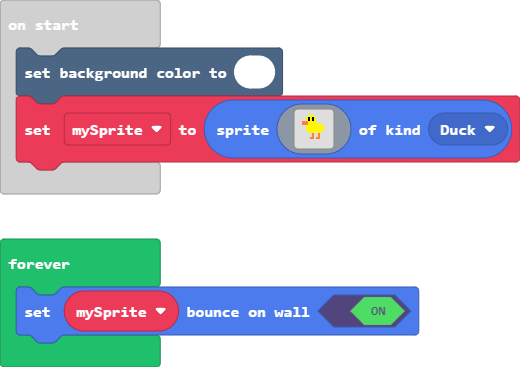
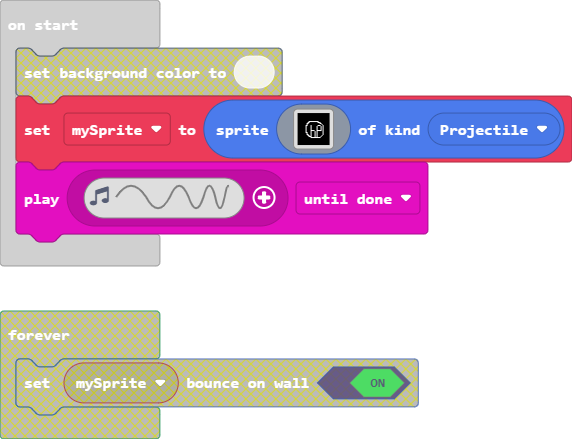
Update pxt.json, main.blocks, main.ts, images.g.jres, images.g.ts

diff --git a/images.g.ts b/images.g.ts
@@ -4,23 +4,39 @@ namespace myImages {
     helpers._registerFactory("image", function(name: string) {
         switch(helpers.stringTrim(name)) {
             case "image1":
-            case "Duckey":return img`
-. . . . . . . . . . . . . . . . 
-. . . . . 5 5 5 . . . . . . . . 
-. . . . 5 f 5 f 5 . . . . . . . 
-. . . . 5 f 5 f 5 . . . . . . . 
-. . 4 4 4 5 5 5 5 . . . . . . . 
-. . 4 4 4 5 5 5 5 5 5 5 . . . . 
-. . . . 5 5 5 5 5 5 5 5 5 . . . 
-. . . . 5 5 5 5 5 5 5 5 5 . . . 
-. . . . 5 5 5 5 5 5 5 5 5 . . . 
-. . . . . 5 5 5 5 5 5 5 . . . . 
-. . . . . . . 4 . . 4 . . . . . 
-. . . . . . . 4 . . 4 . . . . . 
-. . . . . . 4 4 . 4 4 . . . . . 
-. . . . . . . . . . . . . . . . 
-. . . . . . . . . . . . . . . . 
-. . . . . . . . . . . . . . . . 
+            case "HP":return img`
+ffffffffffffffffffffffffffffffff
+ffffffffffffffffffffffffffffffff
+ffffffffffffffffffffffffffffffff
+ffffffffffffffffffffffffffffffff
+ffffffffffffffffffffffffffffffff
+ffffffffffffffffffffffffffffffff
+ffffffffffffffffffffffffffffffff
+ffffffffffffffffffffffffffffffff
+fffffffffff1111111111fffffffffff
+ffffffffff11ffffffff111fffffffff
+fffffffff11fffffffffff11ffffffff
+fffffffff1ffffffffffffff1fffffff
+ffffffff11fff1ffffff111ff1ffffff
+ffffffff1ffff1fffff1fff1f1ffffff
+ffffffff1ffff1fffff1fff1f1ffffff
+ffffffff1ffff1fffff1fff1f1ffffff
+ffffffff1ffff1fffff1fff1f1ffffff
+ffffffff1ffff1111ff11111f1ffffff
+ffffffff1ffff1fff1f1fffff1ffffff
+ffffffff11fff1fff1f1fffff1ffffff
+fffffffff1fff1fff1f1fffff1ffffff
+fffffffff11ff1fff1f1fffff1ffffff
+ffffffffff11f1fff1f1ffff1fffffff
+fffffffffff111fff1f1fff1ffffffff
+fffffffffffff1111111111fffffffff
+ffffffffffffffffffffffffffffffff
+ffffffffffffffffffffffffffffffff
+ffffffffffffffffffffffffffffffff
+ffffffffffffffffffffffffffffffff
+ffffffffffffffffffffffffffffffff
+ffffffffffffffffffffffffffffffff
+ffffffffffffffffffffffffffffffff
 `;
         }
         return null;

diff --git a/main.ts b/main.ts
@@ -1,8 +1,5 @@
 namespace SpriteKind {
     export const Duck = SpriteKind.create()
 }
-scene.setBackgroundColor(1)
-let mySprite = sprites.create(assets.image`Duckey`, SpriteKind.Duck)
-forever(function () {
-    mySprite.setBounceOnWall(true)
-})
+music.play(music.createSoundEffect(WaveShape.Sine, 1, 5000, 200, 200, 2565, SoundExpressionEffect.None, InterpolationCurve.Linear), music.PlaybackMode.UntilDone)
+let mySprite = sprites.create(assets.image`HP`, SpriteKind.Projectile)
